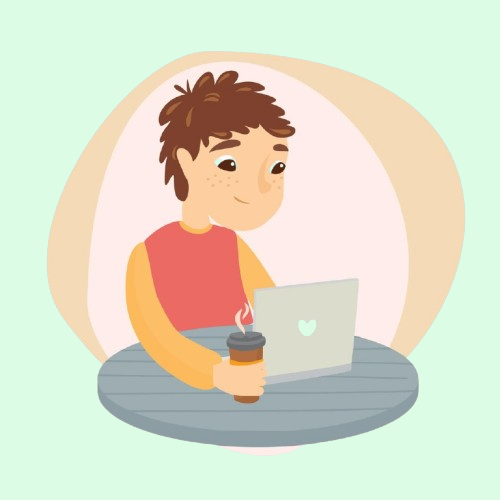
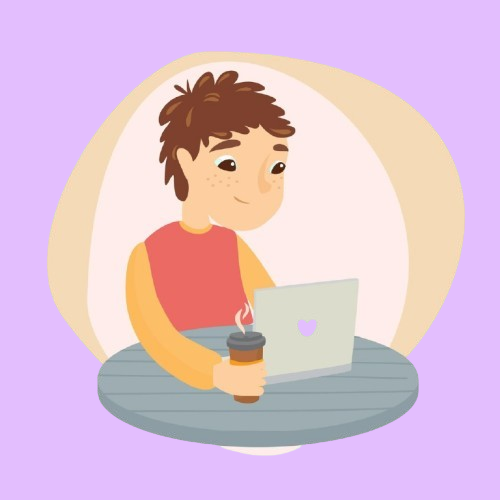
changed ttheme  color

diff --git a/client/src/pages/home/Main.jsx b/client/src/pages/home/Main.jsx
@@ -105,20 +105,20 @@ const Main = () => {
         <div className='flex justify-between flex-col md:flex-row items-center gap-4'>
           <div className='flex-1 w-full pb-5 md:pb-0'>
             <div className='pb-10'>
-              <h2 className='text-4xl md:text-3xl lg:text-4xl font-bold text-[#008c3e]'>It's Now Easy To Print</h2>
+              <h2 className='text-4xl md:text-3xl lg:text-4xl font-bold text-[#533d64]'>It's Now Easy To Print</h2>
               <h3 className='text-md pt-2'>You can print anything by sitting in your home</h3>
             </div>
             <div className='flex flex-col gap-4'>
               {topData.map((item, index) => (
                 <div key={index} className="flex gap-4 items-center">
-                  <div className='w-12 h-12 bg-[#8ae3b2] flex items-center justify-center rounded-full'>
-                    <div>{React.createElement(item.iconSrcUrl, { className: 'text-gray-600' })}</div>
+                  <div className='w-12 h-12 bg-[#894fb6] flex items-center justify-center rounded-full'>
+                    <div>{React.createElement(item.iconSrcUrl, { className: 'text-white' })}</div>
                   </div>
                   <div className="flex flex-col justify-center">
-                    <h4 className="font-semibold md:text-[18px] text-[14px] text-gray-800 transition-colors duration-300 hover:text-green-600">
+                      <h4 className="font-semibold md:text-[18px] text-[14px] text-gray-800 transition-colors duration-300 hover:text-[#894fb6]">
                       {item.heading}
                     </h4>
-                    <p className="md:text-sm text-[12px] text-gray-600 transition-colors duration-300 hover:text-green-500">
+                    <p className="md:text-sm text-[12px] text-gray-600 transition-colors duration-300 hover:text-[#894fb6]">
                       {item.description}
                     </p>
                   </div>
@@ -140,22 +140,22 @@ const Main = () => {
 
           <div className='w-full md:w-1/2 flex flex-col ites md:items-end'>
             <div className='pb-10 text-right'>
-              <h2 className='text-4xl font-bold text-[#008c3e]'>Customize your prints</h2>
+              <h2 className='text-4xl font-bold text-[#533d64]'>Customize your prints</h2>
               <h3 className='text-md pt-2'>Explore a wide range of customization options to perfect your order.</h3>
             </div>
             <div className='flex flex-col gap-4 items-end pb-5 md:pb-0'>
               {downData.map((item, index) => (
                 <div key={index} className="flex gap-4 items-center text-right">
                   <div className="flex flex-col justify-center">
-                    <h4 className="font-semibold md:text-[18px] text-[14px] text-gray-800 transition-colors duration-300 hover:text-green-600">
+                    <h4 className="font-semibold md:text-[18px] text-[14px] text-gray-800 transition-colors duration-300 hover:text-[#894fb6]">
                       {item.heading}
                     </h4>
-                    <p className="md:text-sm text-[12px] text-gray-600 transition-colors duration-300 hover:text-green-500">
+                    <p className="md:text-sm text-[12px] text-gray-600 transition-colors duration-300 hover:text-[#894fb6]">
                       {item.description}
                     </p>
                   </div>
-                  <div className='w-12 h-12 bg-[#8ae3b2] flex items-center justify-center rounded-full'>
-                    {React.createElement(item.iconSrcUrl, { className: 'text-gray-600' })}
+                  <div className='w-12 h-12 bg-[#894fb6] flex items-center justify-center rounded-full'>
+                    {React.createElement(item.iconSrcUrl, { className: 'text-white' })}
                   </div>
                 </div>
               ))}

diff --git a/client/src/pages/common/Contact.jsx b/client/src/pages/common/Contact.jsx
@@ -74,7 +74,7 @@ const Contact = () => {
         {/* Left- contact info */}
         <div className='flex-1'>
           <div className='mb-10'>
-            <PulsatingButton className='cursor-auto bg-gradient-to-tr from-green-500 to-blue-950 mb-5'>
+            <PulsatingButton className='cursor-auto bg-gradient-to-tr from-[#894fb6] to-blue-950 mb-5'>
               Contact us
             </PulsatingButton>
             <h1 className='mt-6 mb-2 text-2xl sm:text-3xl font-bold uppercase text-dark dark:text-white sm:text-[40px] lg:text-[36px] xl:text-[32px]'>
@@ -87,28 +87,28 @@ const Contact = () => {
           <div className='space-y-5'>
             <div className='flex items-center gap-5'>
               <div className='h-16 w-16 bg-slate-200 flex items-center justify-center'>
-                <Home className='text-2xl text-[#008c3e] font-bold' />
+                <Home className='text-2xl text-[#894fb6] font-bold' />
               </div>
               <div>
-                <h1 className='font-bold text-xl text-[#008c3e]'>Address</h1>
+                <h1 className='font-bold text-xl text-[#894fb6]'>Address</h1>
                 <p>123 Main St, Anytown, USA 12345</p>
               </div>
             </div>
             <div className='flex items-center gap-5'>
               <div className='h-16 w-16 bg-slate-200 flex items-center justify-center'>
-                <PhoneCall className='text-2xl text-[#008c3e] font-bold' />
+                <PhoneCall className='text-2xl text-[#894fb6] font-bold' />
               </div>
               <div>
-                <h1 className='font-bold text-xl text-[#008c3e]'>Contact Number</h1>
+                <h1 className='font-bold text-xl text-[#894fb6]'>Contact Number</h1>
                 <p>(+91)4982424135</p>
               </div>
             </div>
             <div className='flex items-center gap-5'>
               <div className='h-16 w-16 bg-slate-200 flex items-center justify-center'>
-                <MailCheck className='text-2xl text-[#008c3e] font-bold' />
+                <MailCheck className='text-2xl text-[#894fb6] font-bold' />
               </div>
               <div>
-                <h1 className='font-bold text-xl text-[#008c3e]'>Email</h1>
+                <h1 className='font-bold text-xl text-[#894fb6]'>Email</h1>
                 <p>meroemail@gmail.com</p>
               </div>
             </div>
@@ -189,13 +189,13 @@ const Contact = () => {
                   <span className='text-green-900'>{result}</span>
 
                 </div>
-                <Button type="submit" className='w-full bg-[#008c3e] hover:bg-[#12743e]'>Submit</Button>
+                <Button type="submit" className='w-full bg-[#894fb6] hover:bg-[#994ad5]'>Submit</Button>
               </form>
             </Form>
           </div>
 
           {/* Background circle behind form */}
-          <div className='absolute sm:-top-14 -top-5 -right-3 sm:-right-14 w-12 sm:w-32 h-12 sm:h-32 bg-[#008c3e] rounded-full -z-30'></div>
+          <div className='absolute sm:-top-14 -top-5 -right-3 sm:-right-14 w-12 sm:w-32 h-12 sm:h-32 bg-[#894fb6] rounded-full -z-30'></div>
         </div>
       </div>
     </div>

diff --git a/client/src/pages/home/Journey.jsx b/client/src/pages/home/Journey.jsx
@@ -80,27 +80,27 @@ const Journey = () => {
 
         <button
           onClick={() => setExpanded(!expanded)}
-          className='text-[#008c3e] font-semibold mt-4'
+          className='text-[#894fb6] font-semibold mt-4'
         >
           {expanded ? '...See Less' : '...See More'}
         </button>
       </div>
 
       <div className='my-20 sm:grid flex flex-col gap-4 sm:grid-cols-2 lg:grid-cols-4 items-center'>
-        <div className='py-3 border-2 w-48 rounded-tr-3xl rounded-bl-3xl items-center flex  flex-col border-[#39cf7d] '>
-          <h2 className='text-[#008c3e] text-2xl py-1 font-bold'>1M+</h2>
+        <div className='py-3 border-2 w-48 rounded-tr-3xl rounded-bl-3xl items-center flex  flex-col border-[#894fb6] '>
+          <h2 className='text-[#894fb6] text-2xl py-1 font-bold'>1M+</h2>
           <p className='text-md text-slate-600'>Happy Clients</p>
         </div>
-        <div className='py-4 border-2 w-48 rounded-tr-3xl rounded-bl-3xl items-center flex  flex-col border-[#39cf7d] '>
-          <h2  className='text-[#008c3e] text-2xl py-1 font-bold'>10000+</h2>
+        <div className='py-4 border-2 w-48 rounded-tr-3xl rounded-bl-3xl items-center flex  flex-col border-[#894fb6] '>
+          <h2  className='text-[#894fb6] text-2xl py-1 font-bold'>10000+</h2>
           <p className='text-slate-600'>Personalized Products</p>
         </div>
-        <div className='py-4 border-2 border-[#39cf7d] w-48 rounded-tr-3xl rounded-bl-3xl items-center flex  flex-col'>
-          <h2  className='text-[#008c3e] text-2xl py-1 font-bold'>22 Years</h2>
+        <div className='py-4 border-2 border-[#894fb6] w-48 rounded-tr-3xl rounded-bl-3xl items-center flex  flex-col'>
+          <h2  className='text-[#894fb6] text-2xl py-1 font-bold'>22 Years</h2>
           <p className='text-slate-600'>of Services Excellence</p>
         </div>
-        <div className='py-4 border-2 border-[#39cf7d] w-48 rounded-tr-3xl rounded-bl-3xl items-center flex  flex-col'>
-          <h2  className='text-[#008c3e] text-2xl py-1 font-bold'>3+</h2>
+        <div className='py-4 border-2 border-[#894fb6] w-48 rounded-tr-3xl rounded-bl-3xl items-center flex  flex-col'>
+          <h2  className='text-[#894fb6] text-2xl py-1 font-bold'>3+</h2>
           <p className='text-slate-600'>Stores across The City</p>
         </div>
       </div>

diff --git a/client/src/components/common/footer/Top.jsx b/client/src/components/common/footer/Top.jsx
@@ -28,11 +28,11 @@ const Top = () => {
         </p>
         <div className='flex flex-col gap-1'>
           <div className='flex items-center gap-3'>
-            <PhoneCallIcon className='text-[#008c3e]' />
+            <PhoneCallIcon className='text-[#894fb6]' />
             <p>(+91) 4345239810</p>
           </div>
           <div className='flex items-center gap-3'>
-            <MailIcon className='text-[#008c3e]' />
+            <MailIcon className='text-[#894fb6]' />
             <a href='mailto:kesavyadav992@gmail.com' className='hover:underline'>
               meroemail@gmail.com
             </a>
@@ -41,27 +41,27 @@ const Top = () => {
       </div>
 
       <div>
-        <h2 className='text-xl font-bold text-[#008c3e] sm:mb-4 mb-1'>Useful Links</h2>
+        <h2 className='text-xl font-bold text-[#533d64] sm:mb-4 mb-1'>Useful Links</h2>
         {usefulLink.map((data, index) => (
           <Link key={index} to={data.link} className='flex items-center gap-1 py-1'>
-            <GrFormNext className='text-[#008c3e] text-xl' />
+            <GrFormNext className='text-[#894fb6] text-xl' />
             {data.name}
           </Link>
         ))}
       </div>
 
       <div>
-        <h2 className='text-xl font-bold text-[#008c3e] sm:mb-4 mb-1'>Support</h2>
+        <h2 className='text-xl font-bold text-[#533d64] sm:mb-4 mb-1'>Support</h2>
         {support.map((data, index) => (
           <Link key={index} to={data.link} className='flex items-center gap-1 py-1'>
-            <GrFormNext className='text-[#008c3e] text-xl' />
+            <GrFormNext className='text-[#894fb6] text-xl' />
             {data.name}
           </Link>
         ))}
       </div>
 
       <div>
-        <h2 className='text-xl font-bold text-[#008c3e] sm:mb-4 mb-1'>Other Info</h2>
+        <h2 className='text-xl font-bold text-[#533d64] sm:mb-4 mb-1'>Other Info</h2>
         <p className='mb-4'>
           Lorem ipsum dolor sit, amet consectetur adipisicing elit. Quaerat iure commodi modi laborum placeat aperiam impedit rem iusto doloribus minus tempore optio aliquid voluptas, soluta nulla enim est maxime!
         </p>

diff --git a/client/src/pages/admin/total-user-products/Total_product.jsx b/client/src/pages/admin/total-user-products/Total_product.jsx
@@ -206,7 +206,7 @@ const Total_product = () => {
             </div>
           </div>
 
-          <div className='bg-green-100 my-4 py-2 rounded-md px-2 pr-2 flex items-center justify-between'>
+          <div className='bg-[#e3befe] my-4 py-2 rounded-md px-2 pr-2 flex items-center justify-between'>
             <button
               className='cursor-pointer text-slate-700 hover:text-red-600 font-bold'
               onClick={() => navigate('/admin/dashboard/users')}
@@ -237,14 +237,14 @@ const Total_product = () => {
               <img src={item?.image} alt="" className='w-20 h-20' />
               <div className='flex-1 flex justify-between items-end pl-4'>
                 <div>
-                  <h3 className='font-bold text-sm text-[#008c3e]'>{item?.name}</h3>
+                  <h3 className='font-bold text-sm text-[#894fb6]'>{item?.name}</h3>
                   <p className='text-sm'>Category: {item.category}</p>
                   <p className='text-sm'>Subcategory: {item.subcategory}</p>
                   <p className='text-sm'>Price: {item.price}</p>
                 </div>
                 <div className='text-center flex gap-4'>
                   <MdEditDocument
-                    className='w-6 h-6 cursor-pointer text-[#008c3e] hover:text-[#2ba261] transition-all duration-300'
+                    className='w-6 h-6 cursor-pointer text-[#894fb6] hover:text-[#2ba261] transition-all duration-300'
                     onClick={() => {
                       {
                         setSelectEditId(item?._id);

diff --git a/client/src/pages/auth/Login.jsx b/client/src/pages/auth/Login.jsx
@@ -90,7 +90,7 @@ const Login = () => {
               <img src={logo} alt="logo" className='w-full h-full rounded-sm' />
             </div>
             <h2 className='text-xl sm:text-3xl py-2 font-bold text-slate-600'>Signin to Your Account</h2>
-            <p className='text-sm text-slate-600'>Don't have an account? <Link to='/auth/signup' className='text-green-800 hover:underline ml-1'>Signup</Link></p>
+            <p className='text-sm text-slate-600'>Don't have an account? <Link to='/auth/signup' className='text-[#894fb6] hover:underline ml-1'>Signup</Link></p>
           </div>
           <div className='w-full md:max-w-[450px] items-end'>
             <Form {...form}>
@@ -122,7 +122,7 @@ const Login = () => {
                   )}
                 />
                 {error && <span className='text-red-600 text-sm'>{error}</span>}
-                <Button type="submit" className='w-full bg-[#008c3e] hover:bg-[#12743e]' disabled={loading}>
+                <Button type="submit" className='w-full bg-[#894fb6] hover:bg-[#6c4987]' disabled={loading}>
                   {loading ? <span className="spinner-border spinner-border-sm mr-2"></span> : null}
                   {loading ? "Submitting..." : "Submit"}
                 </Button>

diff --git a/client/src/pages/auth/Signup.jsx b/client/src/pages/auth/Signup.jsx
@@ -80,7 +80,7 @@ const Signup = () => {
           <div className='flex-1 flex flex-col gap-7'>
             <div>
               <h2 className='text-xl sm:text-3xl py-2 font-bold text-slate-600'>Create An Account</h2>
-              <p className='text-sm text-slate-600'>Already have an account? <Link to='/auth/signin' className='text-green-800 hover:underline ml-1'>Signin</Link></p>
+              <p className='text-sm text-slate-600'>Already have an account? <Link to='/auth/signin' className='text-[#894fb6] hover:underline ml-1'>Signin</Link></p>
             </div>
             <div className='w-full md:max-w-[450px]'>
               <Form {...form}>
@@ -184,7 +184,7 @@ const Signup = () => {
                     )}
                   />
                   <span className='text-red-600 text-sm'>{error}</span>
-                  <Button type="submit" className='w-full bg-[#008c3e] hover:bg-[#12743e]' disabled={loading}>
+                  <Button type="submit" className='w-full bg-[#894fb6] hover:bg-[#6c4987]' disabled={loading}>
                     {loading ? "Submitting..." : "Submit"}
                   </Button>
                 </form>

diff --git a/client/src/pages/auth/Profile.jsx b/client/src/pages/auth/Profile.jsx
@@ -138,7 +138,7 @@ const Profile = () => {
 
               <Button
                 type={!isUpdateInfo ? 'submit' : 'button'}
-                className='bg-[#008c3e] hover:bg-[#136939]'
+                className='bg-[#894fb6] hover:bg-[#7945a1]'
                 onClick={() => setIsUpdateInfo(!isUpdateInfo)}
               >
                 {isUpdateInfo ? <><SaveAll /> Save Changes</> : <> <Edit /> Edit Info</>}
@@ -185,7 +185,7 @@ const Profile = () => {
                 />
                 {passwordError && <span className='text-sm text-red-500'>{passwordError}</span>}
               </div>
-              <Button type='submit' className='bg-[#008c3e] hover:bg-[#136939]'><Save /> Save Changes</Button>
+              <Button type='submit' className='bg-[#894fb6] hover:bg-[#7945a1]'><Save /> Save Changes</Button>
             </form>
           </div>
         </div>

diff --git a/client/src/components/ui/shimmer-button.jsx b/client/src/components/ui/shimmer-button.jsx
@@ -8,7 +8,7 @@ const ShimmerButton = React.forwardRef((
     shimmerSize = "3px",
     shimmerDuration = "2s",
     borderRadius = "6px",
-    background = "#008c3e",
+    background = "#894fb6",
     className,
     children,
     ...props
@@ -29,7 +29,7 @@ const ShimmerButton = React.forwardRef((
       }
       className={cn(
         "group relative z-0 flex cursor-pointer items-center justify-center overflow-hidden whitespace-nowrap border border-white/10 px-6 py-3 text-white [background:var(--bg)] [border-radius:var(--radius)] dark:text-black",
-        "transform-gpu transition-transform duration-300 ease-in-out active:translate-y-px",
+        "transform-gpu transition-transform duration-300 ease-in-out active:translate-y-px ",
         className
       )}
       ref={ref}

diff --git a/client/src/components/common/footer/Down.jsx b/client/src/components/common/footer/Down.jsx
@@ -8,7 +8,7 @@ const Down = () => {
   let year = d.getFullYear();
   return (
     <div className='flex sm:flex-row justify-center border-t-2 items-center py-2 px-auto gap-2'>
-      <div className='text-xs xs:text-sm'> Copyright&copy; {year} <Link to="/" className='text-[#008c3e] font-bold'>mero Sathi</Link> All Rights Reserved
+      <div className='text-xs xs:text-sm'> Copyright&copy; {year} <Link to="/" className='text-[#894fb6] font-bold'>mero Sathi</Link> All Rights Reserved
       </div>
       <div className="flex gap-2 items-center justify-center">
         <Link to="https://www.instagram.com/k_shav09/" target="_blank" className='text-red-600 text-3xl'>

diff --git a/client/src/components/ui/pulsating-button.jsx b/client/src/components/ui/pulsating-button.jsx
@@ -6,14 +6,14 @@ import { cn } from "@/lib/utils";
 export default function PulsatingButton({
   className,
   children,
-  pulseColor = "#50ffaf",
+  pulseColor = "#e3befe",
   duration = "2s",
   ...props
 }) {
   return (
     (<button
       className={cn(
-        "relative text-center cursor-pointer flex justify-center items-center rounded-lg text-white dark:text-black bg-green-500 dark:bg-blue-500 px-4 py-2",
+        "relative text-center cursor-pointer flex justify-center items-center rounded-lg text-white dark:text-black bg-[#894fb6] dark:bg-blue-500 px-4 py-2",
         className
       )}
       style={

diff --git a/client/src/components/user/cart/Cart.jsx b/client/src/components/user/cart/Cart.jsx
@@ -13,7 +13,7 @@ const Cart = () => {
         withCredentials: true,
       });
       console.log(response);
-      
+
       const cartData = response.data
       dispatch(addCartProduct(cartData));
     } catch (error) {
@@ -26,9 +26,18 @@ const Cart = () => {
   }, []);
 
   return (
-    <div>
-      <h2>Cart</h2>
+    <div className='px-4 sm:px-20 py-7'>
+      <div>
+        {/** left the cart items */}
+        <div>
+          
+        </div>
 
+        {/** right total price */}
+        <div>
+
+        </div>
+      </div>
     </div>
   );
 };
